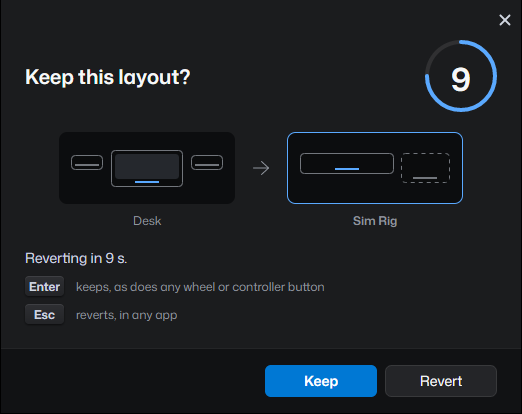
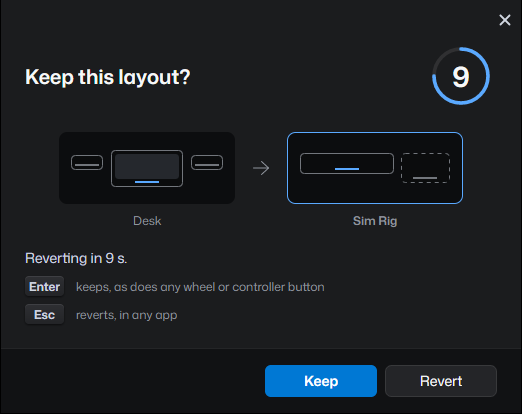
feat(ui): countdown with the WinUI progress ring
The countdown uses FluentAvalonia's determinate progress ring (only its control theme, not the FluentAvalonia theme); the seconds sit in the ring's optical centre for every value. Refs #175

Changed region(s): [[0.7969, 0.087, 0.9502, 0.2899]]

diff --git a/src/RigShift.Avalonia/Views/ConfirmationWindow.axaml.cs b/src/RigShift.Avalonia/Views/ConfirmationWindow.axaml.cs
@@ -153,7 +153,8 @@ public sealed partial class ConfirmationWindow : Window
 
     private void UpdateCountdown()
     {
-        Ring.SweepAngle = 360d * _remaining / _total;
+        Ring.Maximum = _total;
+        Ring.Value = _remaining;
         Seconds.Text = _remaining.ToString(Loc.Instance.Culture);
         HintText.Text = Loc.Format("Confirm_Hint", _remaining);
     }

diff --git a/THIRD-PARTY-NOTICES.md b/THIRD-PARTY-NOTICES.md
@@ -7,6 +7,7 @@ for a given release is its SBOM (`RigShift-<version>.cdx.json` on the release pa
 |---|---|---|
 | [.NET runtime and WPF](https://github.com/dotnet/runtime) (self-contained) | MIT | © .NET Foundation and Contributors |
 | [CommunityToolkit.Mvvm](https://github.com/CommunityToolkit/dotnet) | MIT | © .NET Foundation and Contributors |
+| [FluentAvaloniaUI](https://github.com/amwx/FluentAvalonia) (progress ring of the countdown) | MIT | © 2025 amwx |
 | [Fluent UI System Icons](https://github.com/microsoft/fluentui-system-icons) (icon paths in the app and on the project page) | MIT | © 2020 Microsoft Corporation |
 | [H.NotifyIcon, H.NotifyIcon.Wpf, H.GeneratedIcons.System.Drawing](https://github.com/HavenDV/H.NotifyIcon) | MIT | © havendv |
 | [Microsoft.Extensions.DependencyInjection](https://github.com/dotnet/runtime) | MIT | © Microsoft Corporation |
